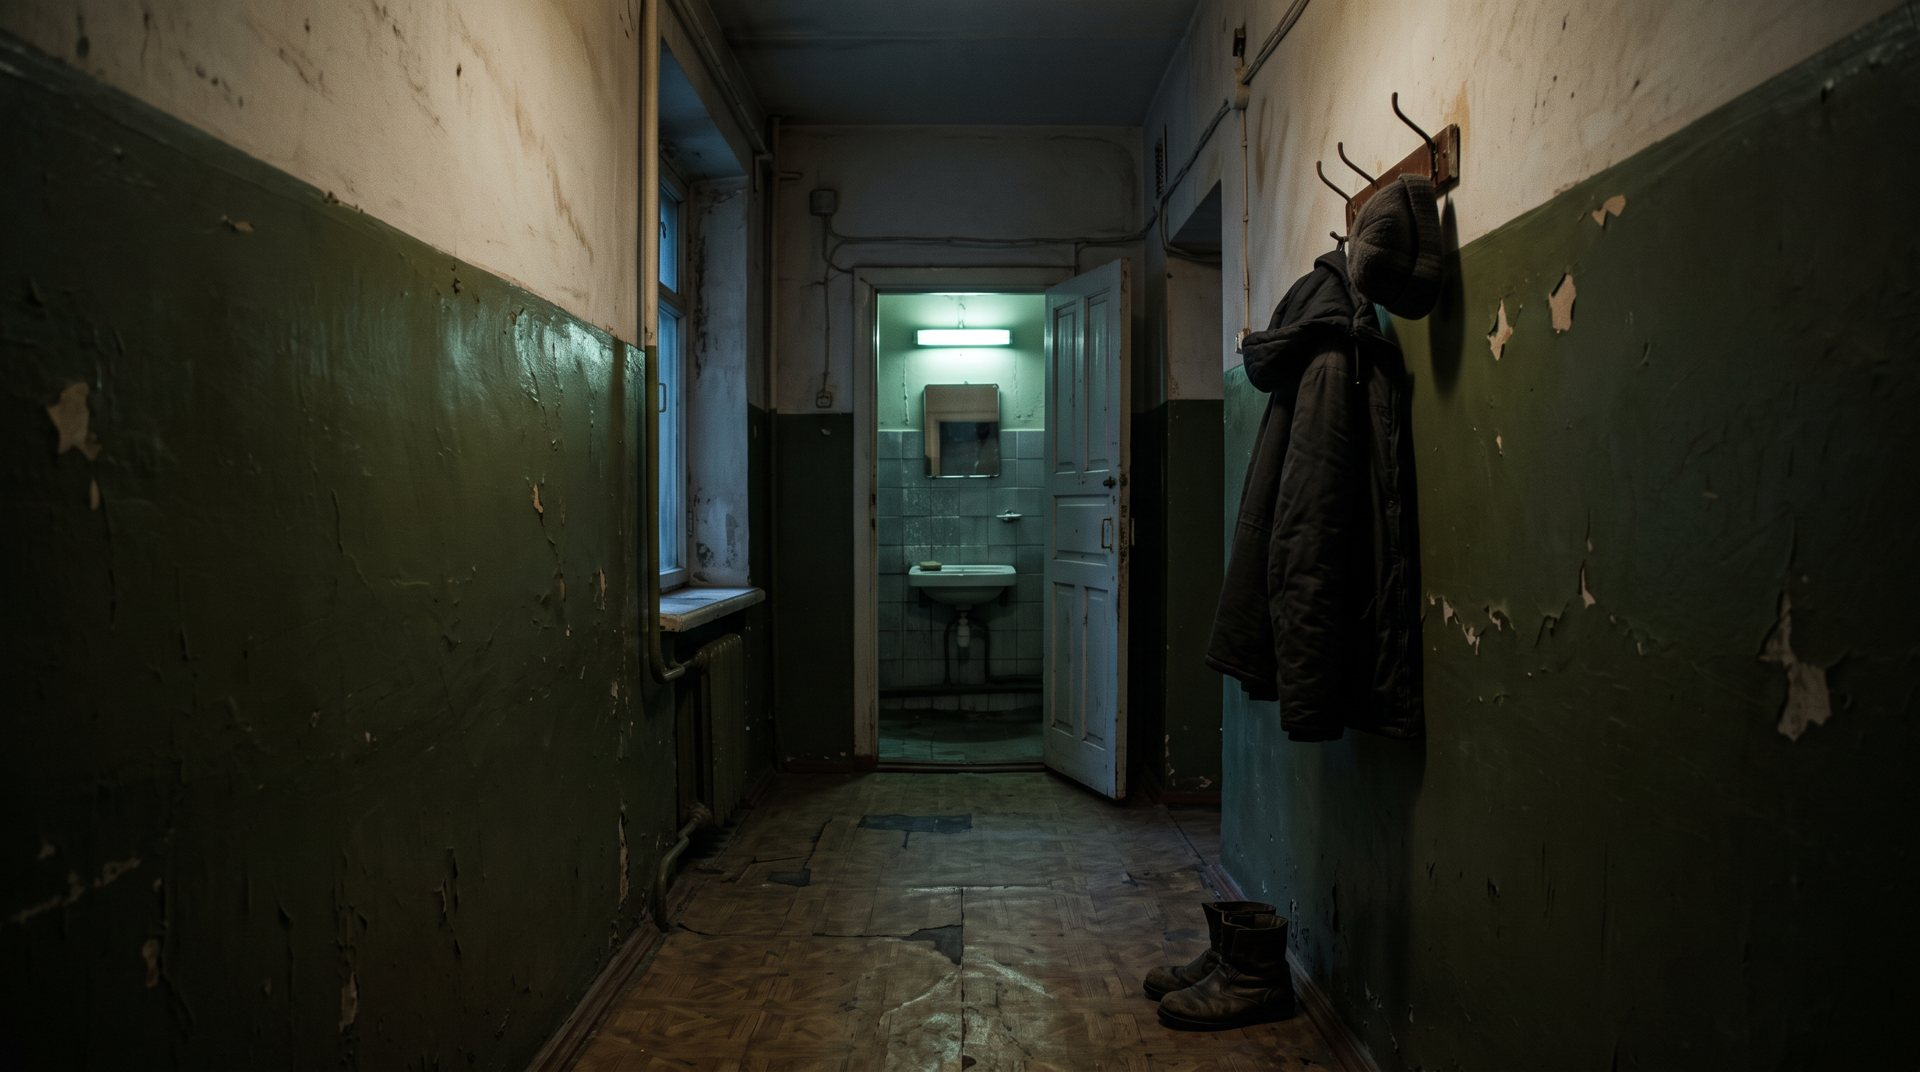
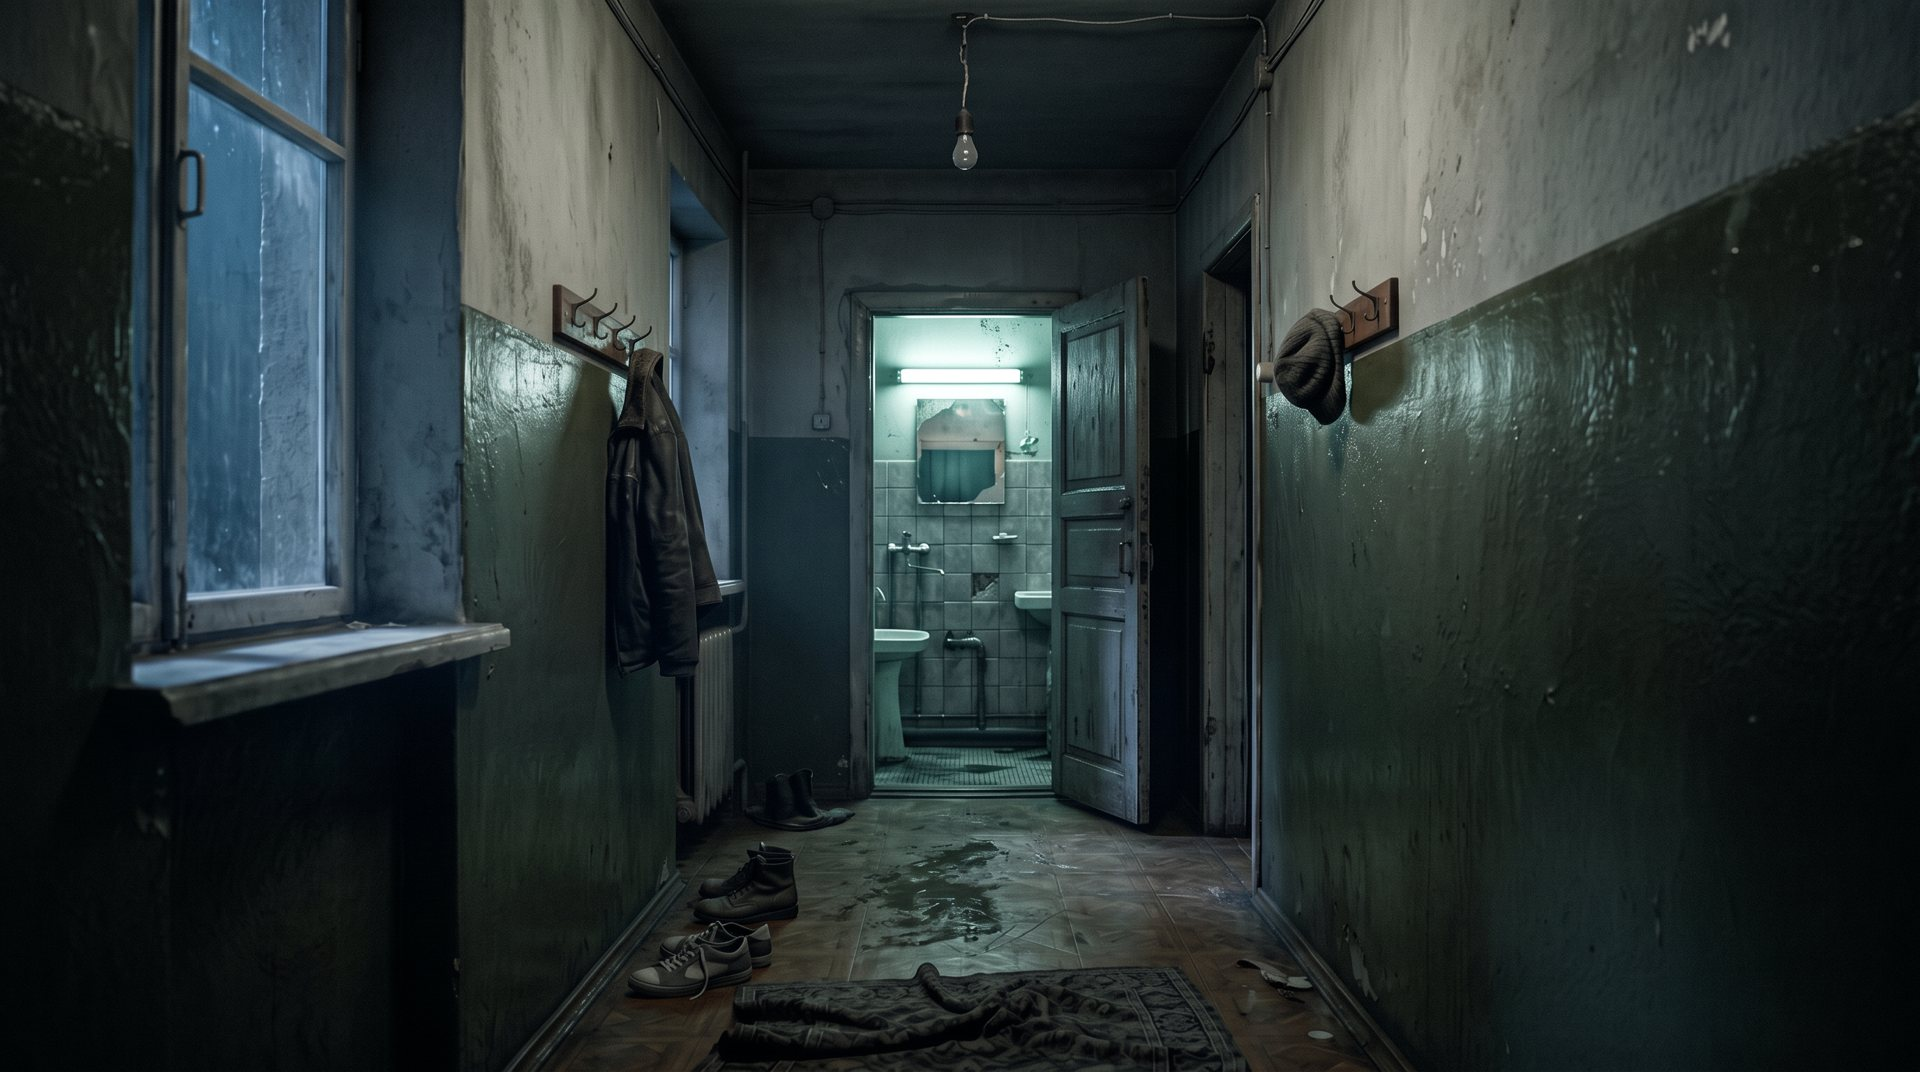
BORI page: storyboard v2 with locked references (same room, same actor, one grade); director's sheets

diff --git a/public/bori/index.html b/public/bori/index.html
@@ -248,6 +248,10 @@
     <div class="eyebrow">02 · Раскадровка режиссёра</div>
     <h2>14 кадров — от пустого коридора до силуэта в зеркале</h2>
     <p class="lead">Режиссёр отдал два листа: рисунки для мизансцен и фото-референсы для фактуры. Мы разобрали их по кадрам — это и есть план сцены, под который собираются локации, персонажи и камера.</p>
+    <div class="grid c2">
+      <figure><img src="assets/list-1.jpg" loading="lazy" alt="Раскадровка режиссёра, лист 1"><figcaption>Лист 1 · кадры 1–9</figcaption></figure>
+      <figure><img src="assets/list-2.jpg" loading="lazy" alt="Раскадровка режиссёра, лист 2"><figcaption>Лист 2 · кадры 10–14</figcaption></figure>
+    </div>
     <div class="tablewrap"><table>
       <tr><th>#</th><th>Кадр</th><th>Что в кадре</th><th>Источник</th></tr>
       <tr><td class="n">1</td><td><b>Коридор, ночь</b></td><td>Одноточечная перспектива, статичная камера. Пусто, в конце приоткрыта дверь в ванную. Дыхание и крик за кадром</td><td class="mono">рисунок</td></tr><tr><td class="n">2</td><td><b>Появление</b></td><td>Та же камера. В проёме появляется Улан, входит</td><td class="mono">рисунок</td></tr><tr><td class="n">3</td><td><b>Со спины, общий</b></td><td>Голый торс, руки на раковине, лампа-трубка над зеркалом, кафель в потёках</td><td class="mono">реф</td></tr><tr><td class="n">4</td><td><b>Крик</b></td><td>Крупно лицо: крик, мокрые волосы</td><td class="mono">реф</td></tr><tr><td class="n">5</td><td><b>Инсерт лампы</b></td><td>Трубка над зеркалом мигает, замыкает — строб</td><td class="mono">реф</td></tr><tr><td class="n">6</td><td><b>На полу</b></td><td>На четвереньках, в джинсах, торс мокрый</td><td class="mono">реф</td></tr><tr><td class="n">7</td><td><b>Корчится в мучениях</b></td><td>Лицо крупно, руки на лице, рот открыт</td><td class="mono">рисунок</td></tr><tr><td class="n">8</td><td><b>Топшот</b></td><td>Вид сверху: раковина у левой стены, унитаз в правом верхнем углу. Ползёт к раковине, встаёт к зеркалу</td><td class="mono">рисунок</td></tr><tr><td class="n">9</td><td><b>Когти</b></td><td>Когтистая рука на бортике, мокрый кафель</td><td class="mono">реф</td></tr><tr><td class="n">10</td><td><b>Глаза</b></td><td>Сверхкрупно: желтеют</td><td class="mono">реф</td></tr><tr><td class="n">11</td><td><b>Зеркало</b></td><td>Треснувшее зеркало, лицо еле видно между трещин. Частично превратился</td><td class="mono">рисунок</td></tr><tr><td class="n">12</td><td><b>Лапы</b></td><td>Лапы волка на мокром кафеле</td><td class="mono">реф</td></tr><tr><td class="n">13</td><td><b>Превратился</b></td><td>Голова волка: оскал, рык</td><td class="mono">реф</td></tr><tr><td class="n">14</td><td><b>Выходит из кадра</b></td><td>В зеркале серый силуэт волка уходит влево</td><td class="mono">рисунок</td></tr>
@@ -260,8 +264,8 @@
 <section>
   <div class="wrap">
     <div class="eyebrow">02а · Раскадровка в кадрах</div>
-    <h2>14 кадров режиссёра — сняты</h2>
-    <p class="lead">Каждый кадр раскадровки переведён в кино-кадр: один и тот же Улан (мокрые волосы, голый торс, джинсы), одна и та же ванная по топшоту, свет только от лампы и луны. Ключ — практический грим и камера, не 3D.</p>
+    <h2>14 кадров режиссёра — сняты единым ключом</h2>
+    <p class="lead">Каждый кадр раскадровки снят с одними и теми же референсами: коридор, ванная, герой и волк заданы картинками, а не описанием. Один герой во всех кадрах, одна комната, один холодный грейд, ракурсы — по рисункам режиссёра (кадр 3 строго фронтально, кадр 8 — топшот, кадр 14 — волк выходит в дверь, зеркало за спиной).</p>
     <div class="grid c3">
       <figure><img src="assets/k01.jpg" loading="lazy" alt="Кадр 1"><figcaption>1 · Коридор, ночь. Дверь в конце приоткрыта</figcaption></figure>
       <figure><img src="assets/k02.jpg" loading="lazy" alt="Кадр 2"><figcaption>2 · В проёме появляется Улан</figcaption></figure>
